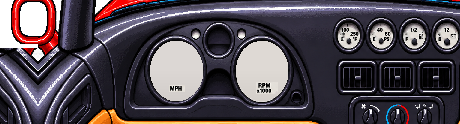
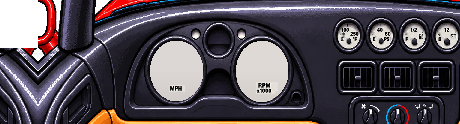
Serpe V10: luz noturna dos mostradores em bege claro e retrovisor esquerdo como na arte (cortado na borda, sem espelhar), com a vista de trás só no vidro
Claude-Session: https://claude.ai/code/session_01MLD9VR7gkmY4w6a9beZcp6

Changed region(s): [[0.0, 0.0, 0.0913, 0.3629]]

diff --git a/src/cockpit.ts b/src/cockpit.ts
@@ -40,7 +40,7 @@ interface CockpitArt {
   // partir do topo da arte (topo de 76 linhas + painel)
   mirror?: { img: string; x: number; y: number };
   lit?: [number, number, number, number][]; // visores com luz própria na arte do painel (x0, y0, x1, y1 inclusivos, pixels do painel): continuam acesos à noite
-  glass?: { at: [number, number]; thr?: number };
+  glass?: { at: [number, number]; thr?: number; x0?: number }; // x0: o vidro começa nesta coluna (espelho cortado na borda da arte)
   // luz da seta antiga: um só círculo verde que pisca para os dois lados (+ as outras luzes da fileira, apagadas)
   turnDot?: { x: number; y: number; others?: [number, number][] };
   tells?: [number, number] | null; // luzes da seta no quadro (null: a cabine já desenha as dela) // ponto dentro do vidro do retrovisor (teto + painel), ver findGlass
@@ -849,10 +849,10 @@ const VP_INK = '#16161a', VP_BG = '#ecebe2';
 COCKPIT_ART.viper = {
   dash: cp('viper-dash'), top: cp('viper-top'), wheel: cp('viper-wheel'),
   pivot: [128, 105], wheelTop: 14, speedMax: 322, needle: '#e3241c', needleW: 2.2, needleTail: 4, needleFine: true, hub: '#151517', hubR: 3.4, radar: [102, 22],
-  glass: { at: [33, 95], thr: 256 }, tells: null, // vidro do retrovisor esquerdo (metade de fora completada)
-  // à noite os fundos brancos acendem em âmbar (luz por trás, como no carro); os ponteiros
+  glass: { at: [42, 95], thr: 256, x0: 39 }, tells: null, // vidro do retrovisor esquerdo (como na arte, cortado na borda)
+  // à noite os fundos brancos acendem em bege claro (luz por trás, como no carro); os ponteiros
   // vermelhos não têm luz e ficam escuros contra o fundo aceso
-  facesLit: '255,176,92', glow: '255,160,70', glowK: 0.35,
+  facesLit: '255,236,196', glow: '255,226,170', glowK: 0.3,
   // fundos dos mostradores grandes: a própria arte, em alta resolução, com os números refeitos
   // (tools/ref/viper_gauges.py): velocímetro 20-200 mph e conta-giros 0-8 com a faixa amarela e vermelha
   faces: [

diff --git a/src/sidemirror.ts b/src/sidemirror.ts
@@ -24,7 +24,7 @@ let view: HTMLCanvasElement | null = null;
 // procura o vidro nas imagens do topo e do painel (as duas empilhadas: topo em cima)
 // seed: um ponto dentro do vidro (arte com reflexo pintado, sujeira ou vidro transparente): o vidro
 // passa a ser tudo o que a moldura escura cerca a partir dele (claro ou transparente), sem furos
-export function findGlass(key: string, top: HTMLCanvasElement | null, dash: HTMLCanvasElement, maxX: number, seed?: { at: [number, number]; thr?: number }): Glass | null {
+export function findGlass(key: string, top: HTMLCanvasElement | null, dash: HTMLCanvasElement, maxX: number, seed?: { at: [number, number]; thr?: number; x0?: number }): Glass | null {
   if (glasses.has(key)) return glasses.get(key)!;
   const W = dash.width;
   const th = top ? top.height : 0;
@@ -38,7 +38,7 @@ export function findGlass(key: string, top: HTMLCanvasElement | null, dash: HTML
   const d = a.getImageData(0, 0, W, H).data;
   const isGlass = new Uint8Array(W * H);
   for (let y = 0; y < H; y++)
-    for (let x = 0; x < maxX; x++) {
+    for (let x = seed?.x0 ?? 0; x < maxX; x++) {
       const i = (y * W + x) * 4;
       const r = d[i], g = d[i + 1], b = d[i + 2];
       if (seed) {

diff --git a/tools/ref/viper_cockpit.py b/tools/ref/viper_cockpit.py
@@ -89,9 +89,7 @@ def main():
     glass[y0:y1, x0:x1] = blue[y0:y1, x0:x1]
     glass = cv2.morphologyEx(glass.astype(np.uint8), cv2.MORPH_CLOSE, np.ones((7, 7), np.uint8)).astype(bool)
     sky |= glass
-    # retrovisor externo esquerdo: a arte mostra só a metade de dentro (cortada na borda esquerda);
-    # a metade de fora é a borda da carcaça espelhada em torno de MIR_AXIS, com o vidro emendado.
-    # Só a carcaça (sem a haste que desce para a porta) é espelhada
+    # retrovisor externo esquerdo: fica como na arte, cortado na borda (outer_half não é usado)
     hr = (rgb[..., 0] > 90) & (rgb[..., 0] > rgb[..., 1] * 1.5) & (rgb[..., 0] > rgb[..., 2] * 1.5)
     col = np.nonzero(hr[140:340, 12] | glass[140:340, 12])[0] + 140
     # centro na vertical pelo vidro na borda da arte (assim o canto de baixo espelhado encosta certo)
@@ -137,19 +135,12 @@ def main():
     d_rgb = sample(dash, xr, ys)
     d_al = ~sample(sky, xr, ys)
     d_al[:, xs < 0] &= (ys[:, None] > 330).repeat((xs < 0).sum(), 1)
-    # metade de fora do retrovisor (à esquerda da arte)
-    put, mrgb, mal = outer_half(xs, ys, dash, glass, shell, my_top, my_bot)
-    d_rgb[put] = mrgb[put]
-    d_al[put] = mal[put]
     Image.fromarray(np.dstack([d_rgb, d_al.astype(np.uint8) * 255]), 'RGBA').save(os.path.join(out, 'viper-dash.png'))
     xs, ys = grid(y0d - EXT * PXH, EXT)
     xr = np.where(xs < 0, -xs, np.clip(xs, 0, W - 1))
     t_rgb = sample(dash, xr, ys)
     t_al = ~sample(sky, xr, ys)
     t_al[:, xs < 0] = False
-    put, mrgb, mal = outer_half(xs, ys, dash, glass, shell, my_top, my_bot)
-    t_rgb[put] = mrgb[put]
-    t_al[put] = mal[put]
     Image.fromarray(np.dstack([t_rgb, t_al.astype(np.uint8) * 255]), 'RGBA').save(os.path.join(out, 'viper-top.png'))
 
     # volante
@@ -247,7 +238,7 @@ def main():
     Image.fromarray(np.dstack([w_rgb, w_al.astype(np.uint8) * 255]), 'RGBA').save(os.path.join(out, 'viper-wheel.png'))
     hubn = (PIV_N[0] + (hx - PIV[0]) * S, (hy - (y0d - WTOP * PXH)) / PXH)
     mg = np.nonzero(glass)
-    mn = (PAD + PIV_N[0] + (-MIR_GAP / 2 - PIV[0]) * S, EXT + (np.median(mg[0]) - y0d) / PXH)
+    mn = (PAD + PIV_N[0] + (np.median(mg[1]) - PIV[0]) * S, EXT + (np.median(mg[0]) - y0d) / PXH)
     gauges = {'speed': (460, 397), 'tach': (748, 393), 'aux': [(1035, 293), (1145, 293), (1255, 293), (1365, 293)]}
     nat = lambda p: (round(PIV_N[0] + (p[0] - PIV[0]) * S, 1), round((p[1] - y0d) / PXH, 1))
     print('miolo', [round(v, 1) for v in hubn], 'espelho', [round(float(v), 1) for v in mn],
